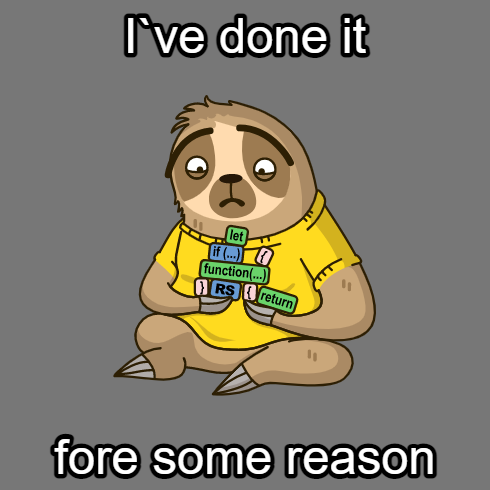
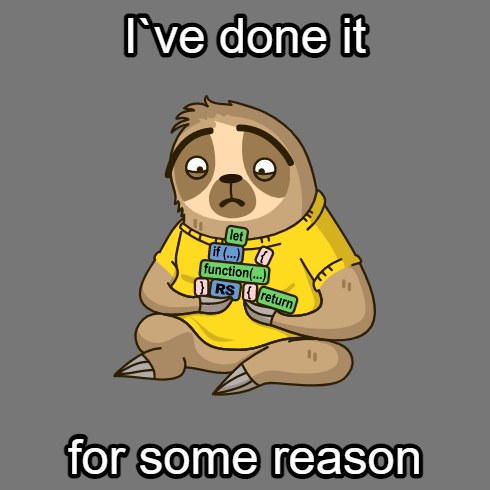
feat: made basic css (Fri, Mar 10, 2023  4:52:38 PM)

Changed region(s): [[0.0918, 0.8878, 0.9184, 0.9796]]

diff --git a/cssBayan/style.css b/cssBayan/style.css
@@ -1,0 +1,35 @@
+body {
+    background-color: antiquewhite;
+}
+
+.container {
+    max-width: 1440px;
+    margin: auto;
+}
+
+.line {
+    width: 100%;
+    height: 2px;
+    background-color: gray;
+}
+
+.meme-container {
+    display: flex;
+    justify-content: space-between;
+}
+
+.meme-title {
+    font-size: 1.5em;
+    font-weight: bold;
+}
+
+.cross {
+    width: 70px;
+    height: auto;
+}
+
+.meme {
+    max-width: 500px;
+    height: auto;
+    margin: 0 0 24px 25%;
+}

diff --git a/cssBayan/index.html b/cssBayan/index.html
@@ -51,7 +51,7 @@
         <div class="item">
             <div class="line"></div>
             <div class="meme-container">
-                <p class="meme-title">I`ve done it. Fore some reason</p>
+                <p class="meme-title">I`ve done it. For some reason</p>
                 <img src="assets/cross.svg" alt="cross" class="cross">
             </div>
             <img src="assets/5.png" alt="meme" class="meme">
